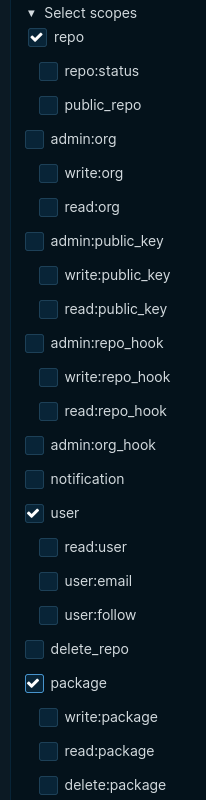
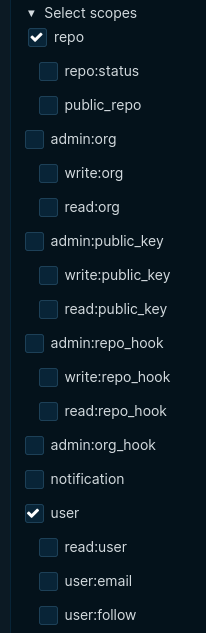
feat: Remove unnecessary package scope

Changed region(s): [[0.1165, 0.0, 0.8155, 1.0], [0.4369, 0.0, 0.6699, 0.03]]

diff --git a/posts/migration-from-github-to-codeberg.md b/posts/migration-from-github-to-codeberg.md
@@ -128,7 +128,7 @@ After that, open it in your favorite text editor (e.g [VSCodium](https://vscodiu
 - `CBOUT` with output repository (`blog`)
 - `CBUSER` with your Codeberg username
 
-Push all the changes and [Generate an Access Token](https://docs.codeberg.org/advanced/access-token), you need to generate token named `cbtoken` with the `repo`, `user` and `package` scopes selected
+Push all the changes and [Generate an Access Token](https://docs.codeberg.org/advanced/access-token), you need to generate token named `cbtoken` with the `repo` and `user` scopes selected
 
 ![](../assets/blog/2023-07-15/Pasted image 20230715225539.png)
 
